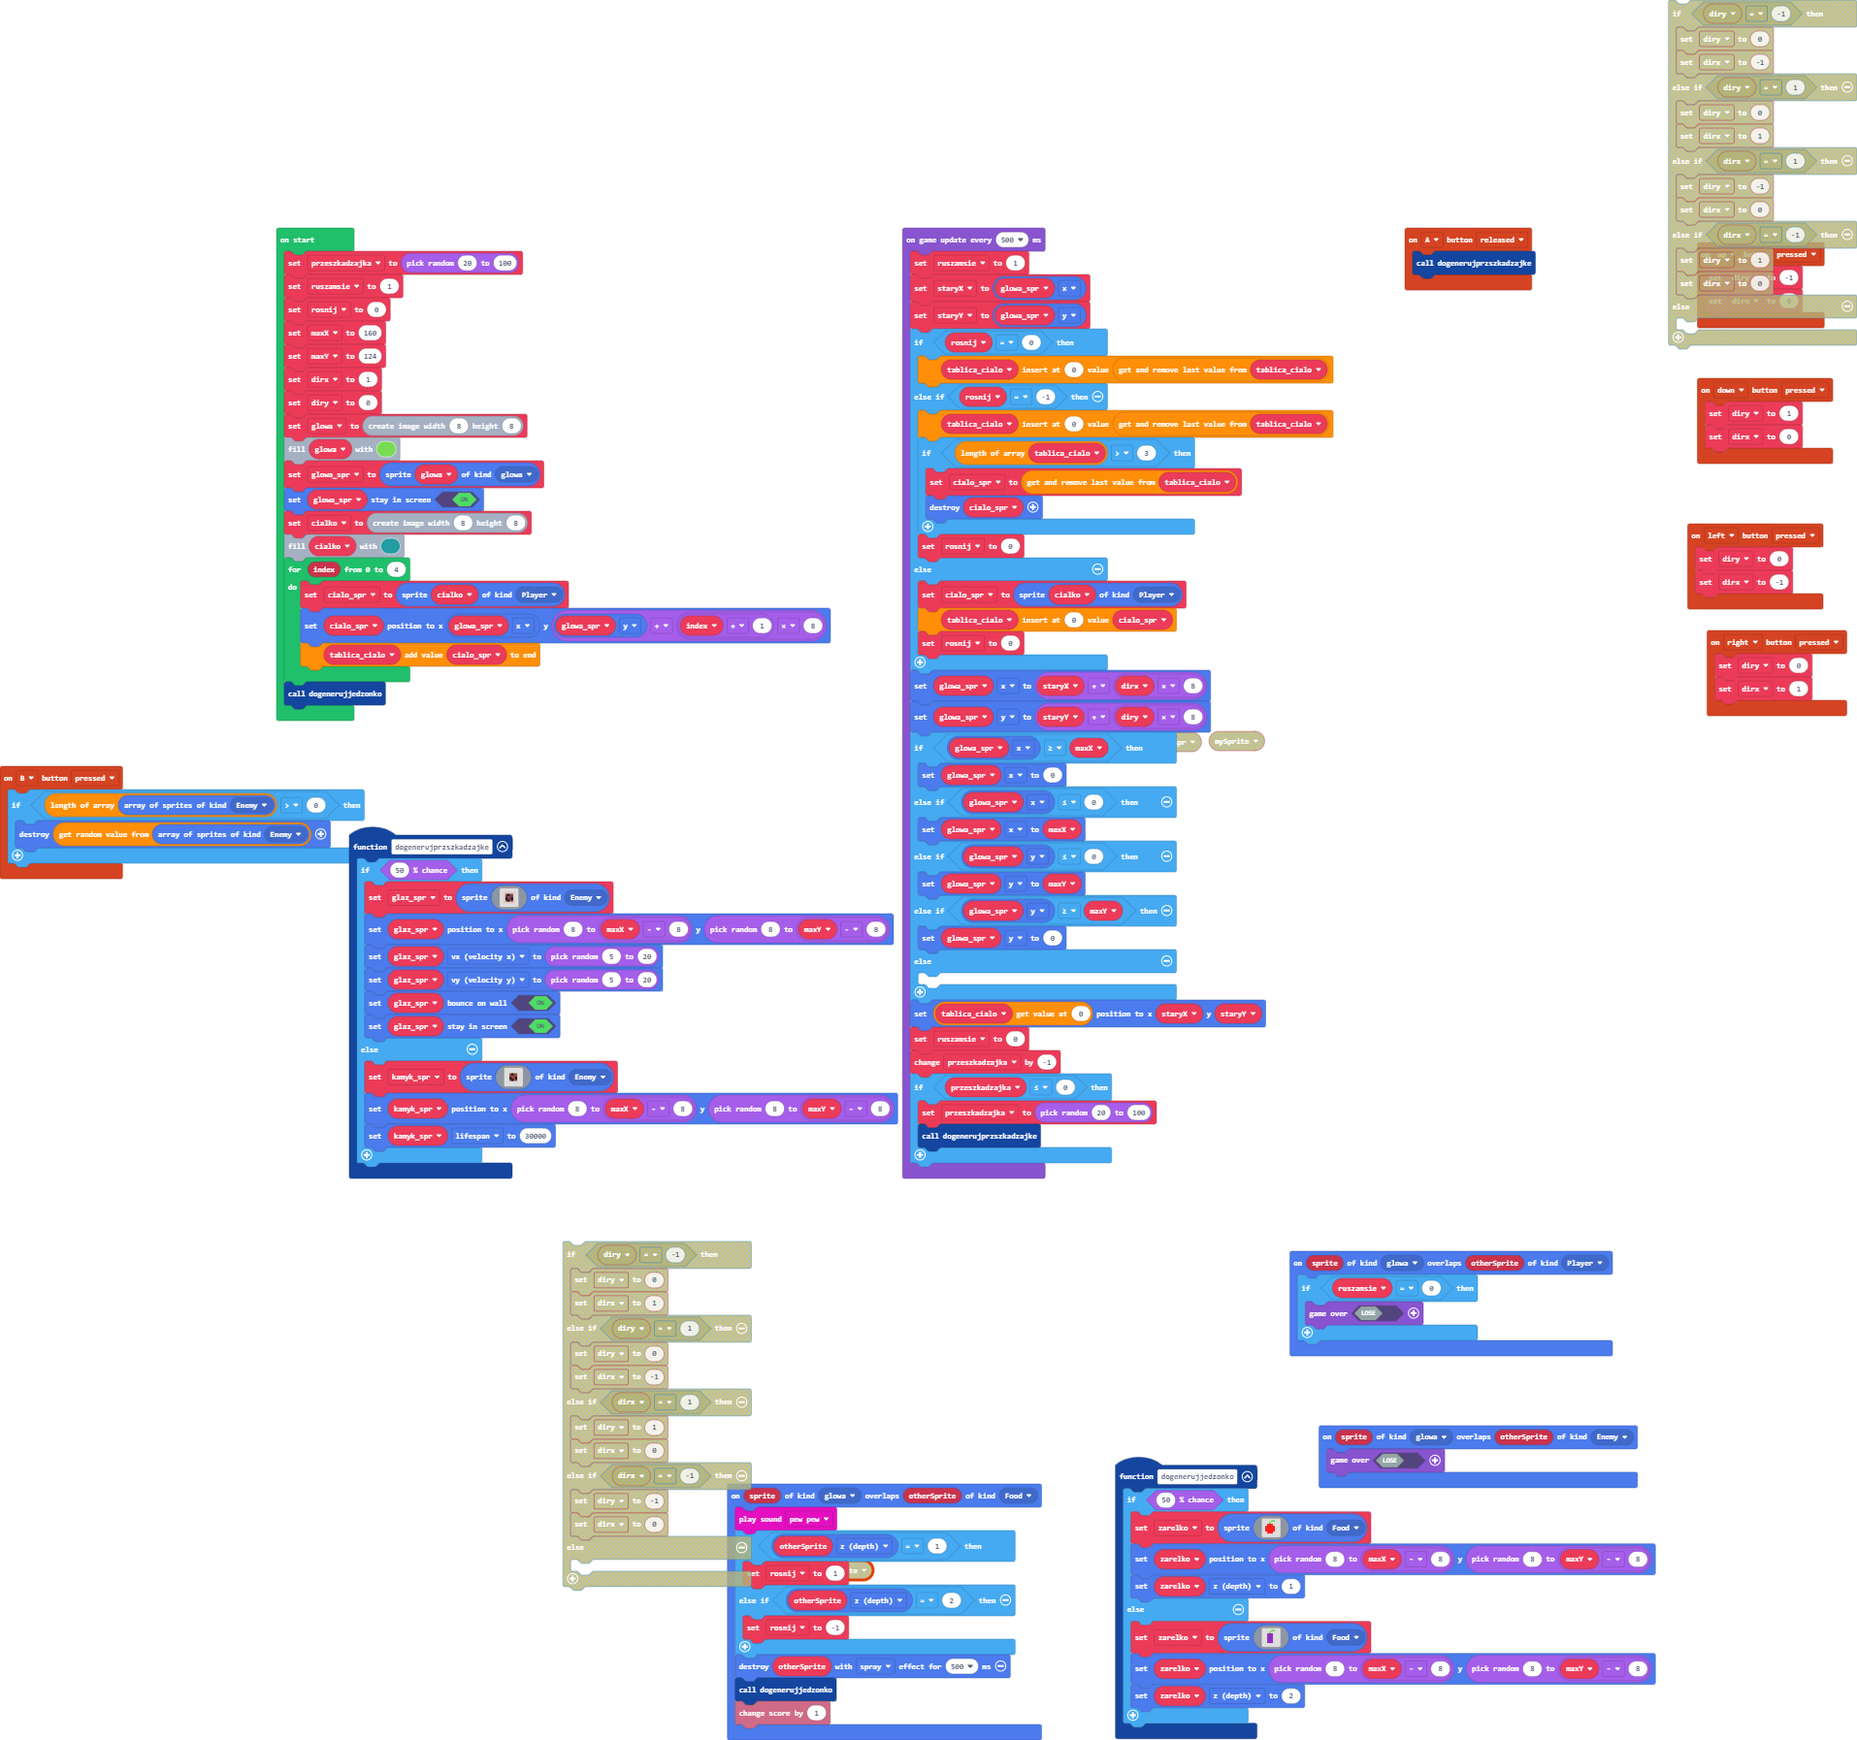
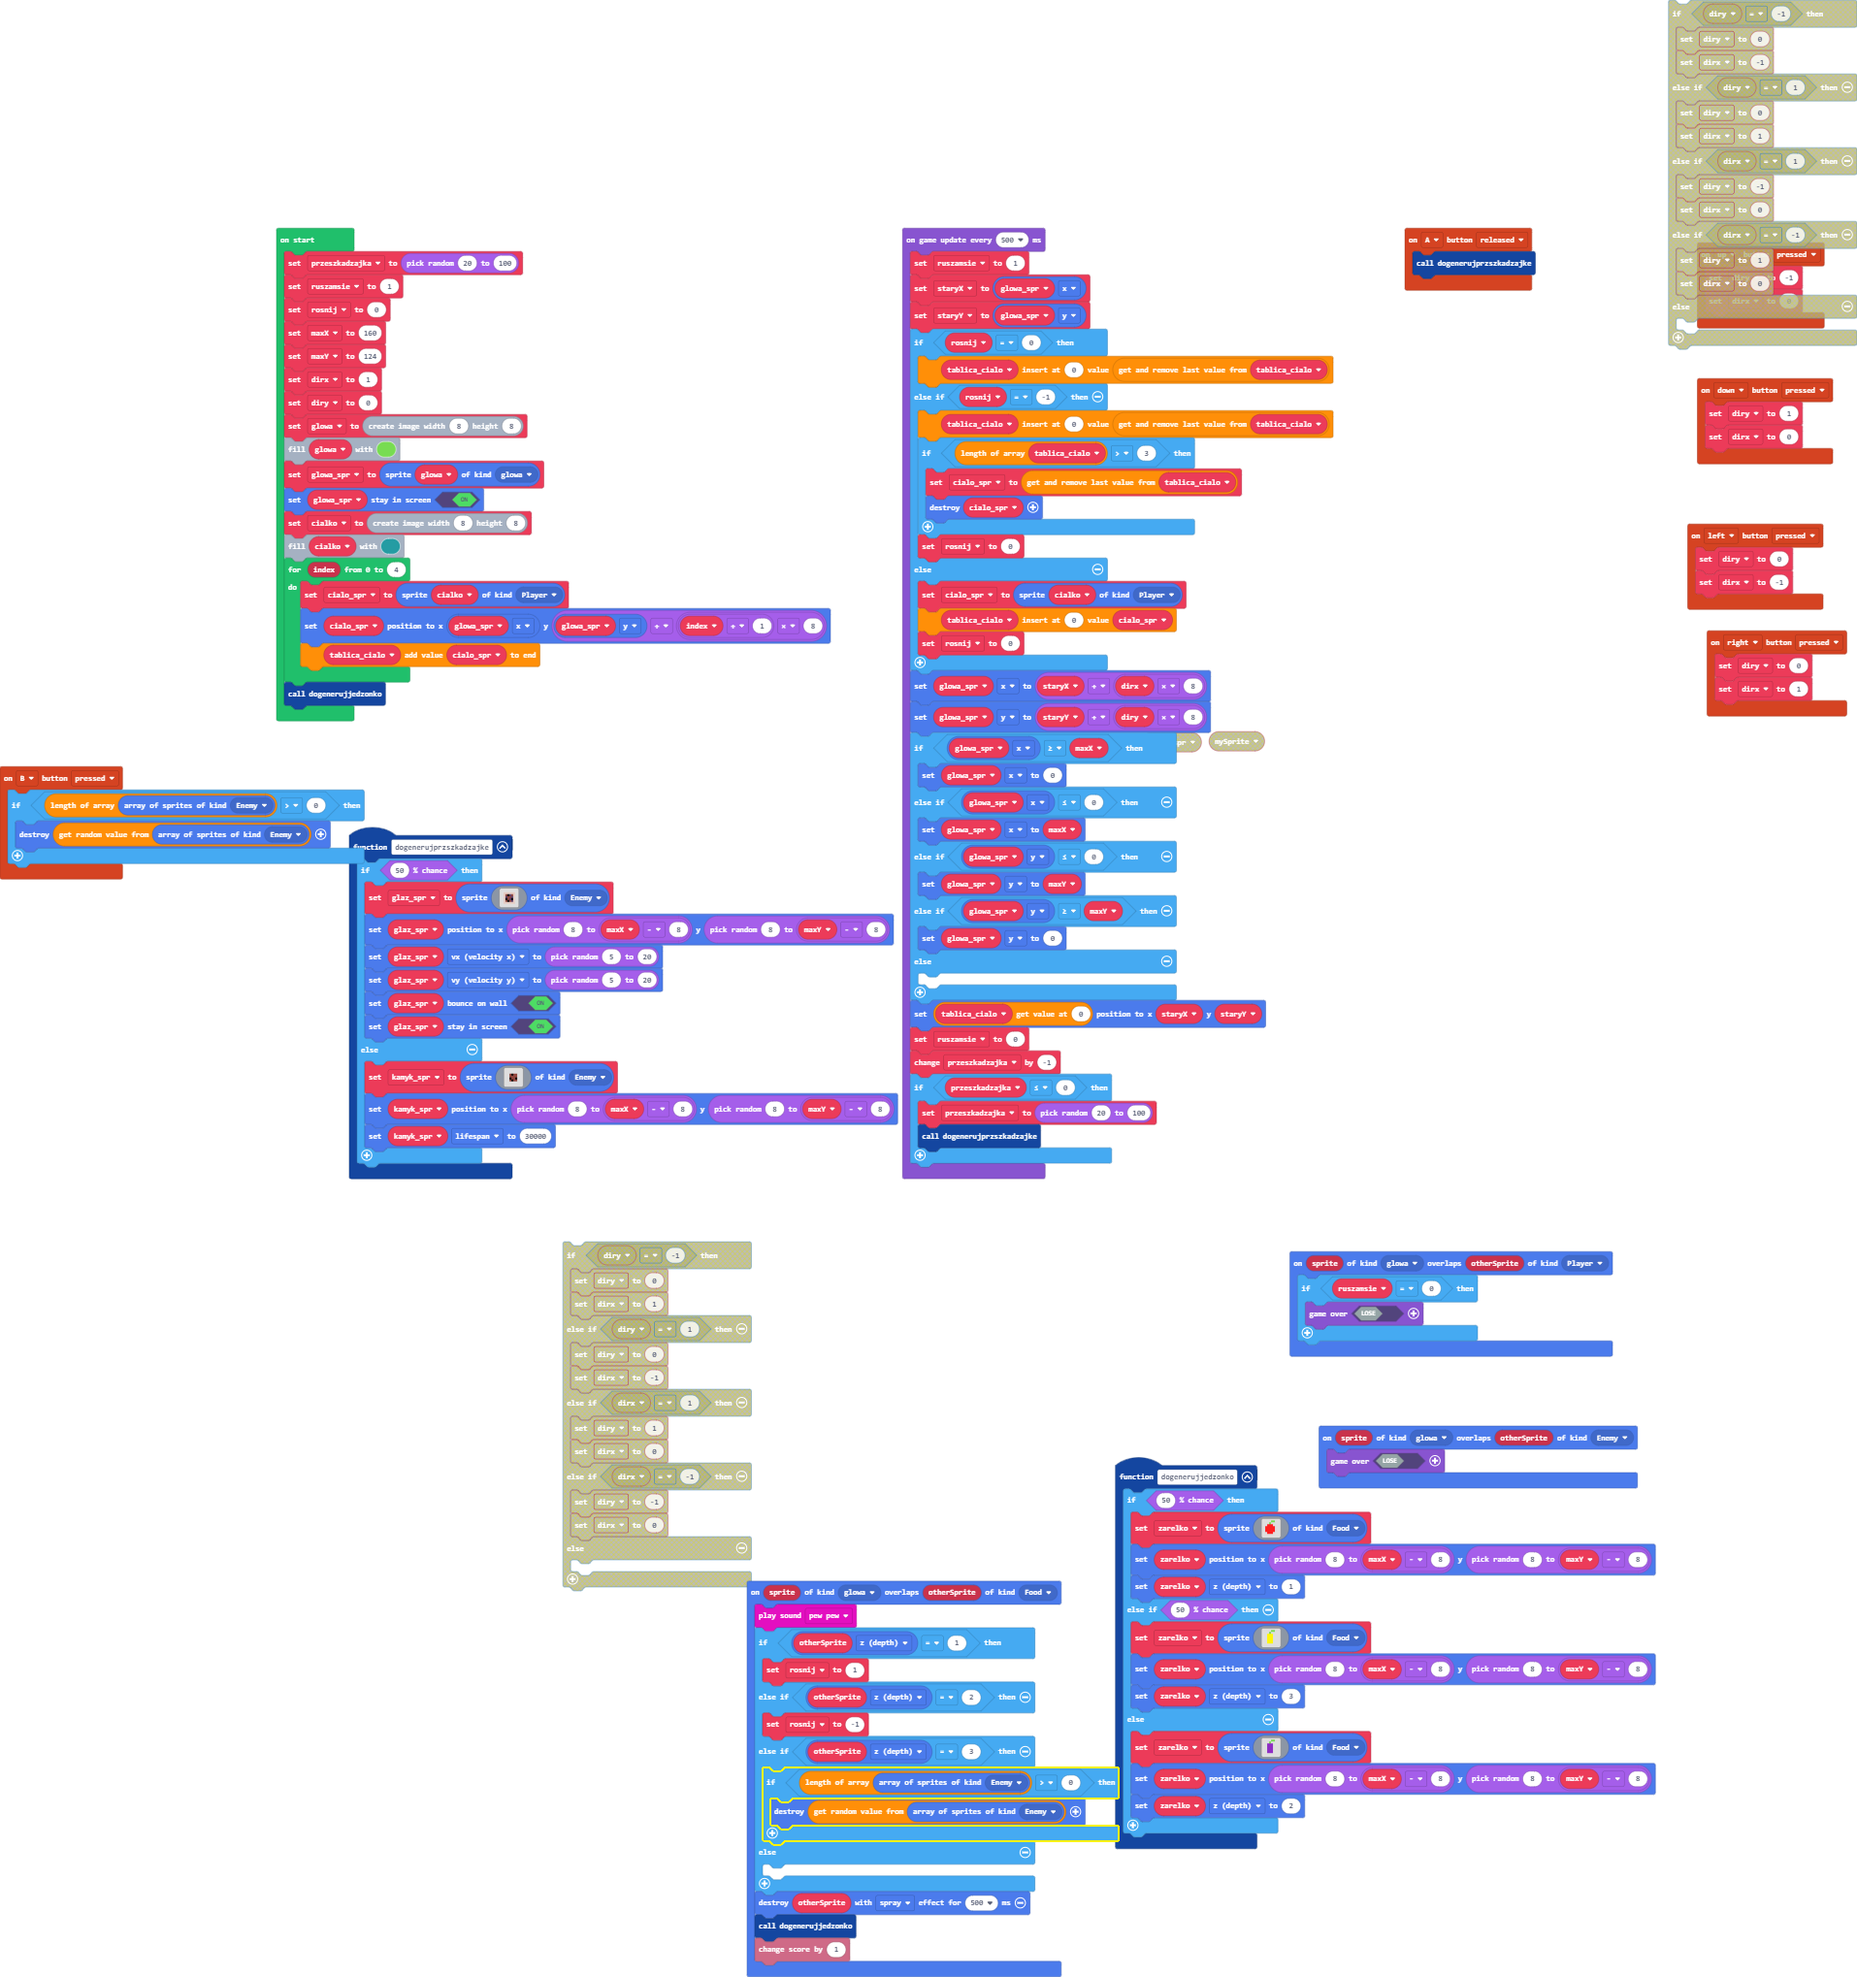
Update main.blocks, main.ts

diff --git a/main.ts b/main.ts
@@ -28,6 +28,19 @@ function dogenerujjedzonko () {
             `, SpriteKind.Food)
         zarelko.setPosition(randint(8, maxX - 8), randint(8, maxY - 8))
         zarelko.z = 1
+    } else if (Math.percentChance(50)) {
+        zarelko = sprites.create(img`
+            . . . . 7 7 . . 
+            . . . 7 . . . . 
+            . . 5 5 5 . . . 
+            . . 5 5 5 . . . 
+            . . 5 5 5 . . . 
+            . . 5 5 5 . . . 
+            . . 5 5 5 . . . 
+            . . . . . . . . 
+            `, SpriteKind.Food)
+        zarelko.setPosition(randint(8, maxX - 8), randint(8, maxY - 8))
+        zarelko.z = 3
     } else {
         zarelko = sprites.create(img`
             . . . . 7 7 . . 
@@ -68,6 +81,12 @@ sprites.onOverlap(SpriteKind.glowa, SpriteKind.Food, function (sprite, otherSpri
         rosnij = 1
     } else if (otherSprite.z == 2) {
         rosnij = -1
+    } else if (otherSprite.z == 3) {
+        if (sprites.allOfKind(SpriteKind.Enemy).length > 0) {
+            sprites.allOfKind(SpriteKind.Enemy)._pickRandom().destroy()
+        }
+    } else {
+    	
     }
     otherSprite.destroy(effects.spray, 500)
     dogenerujjedzonko()
